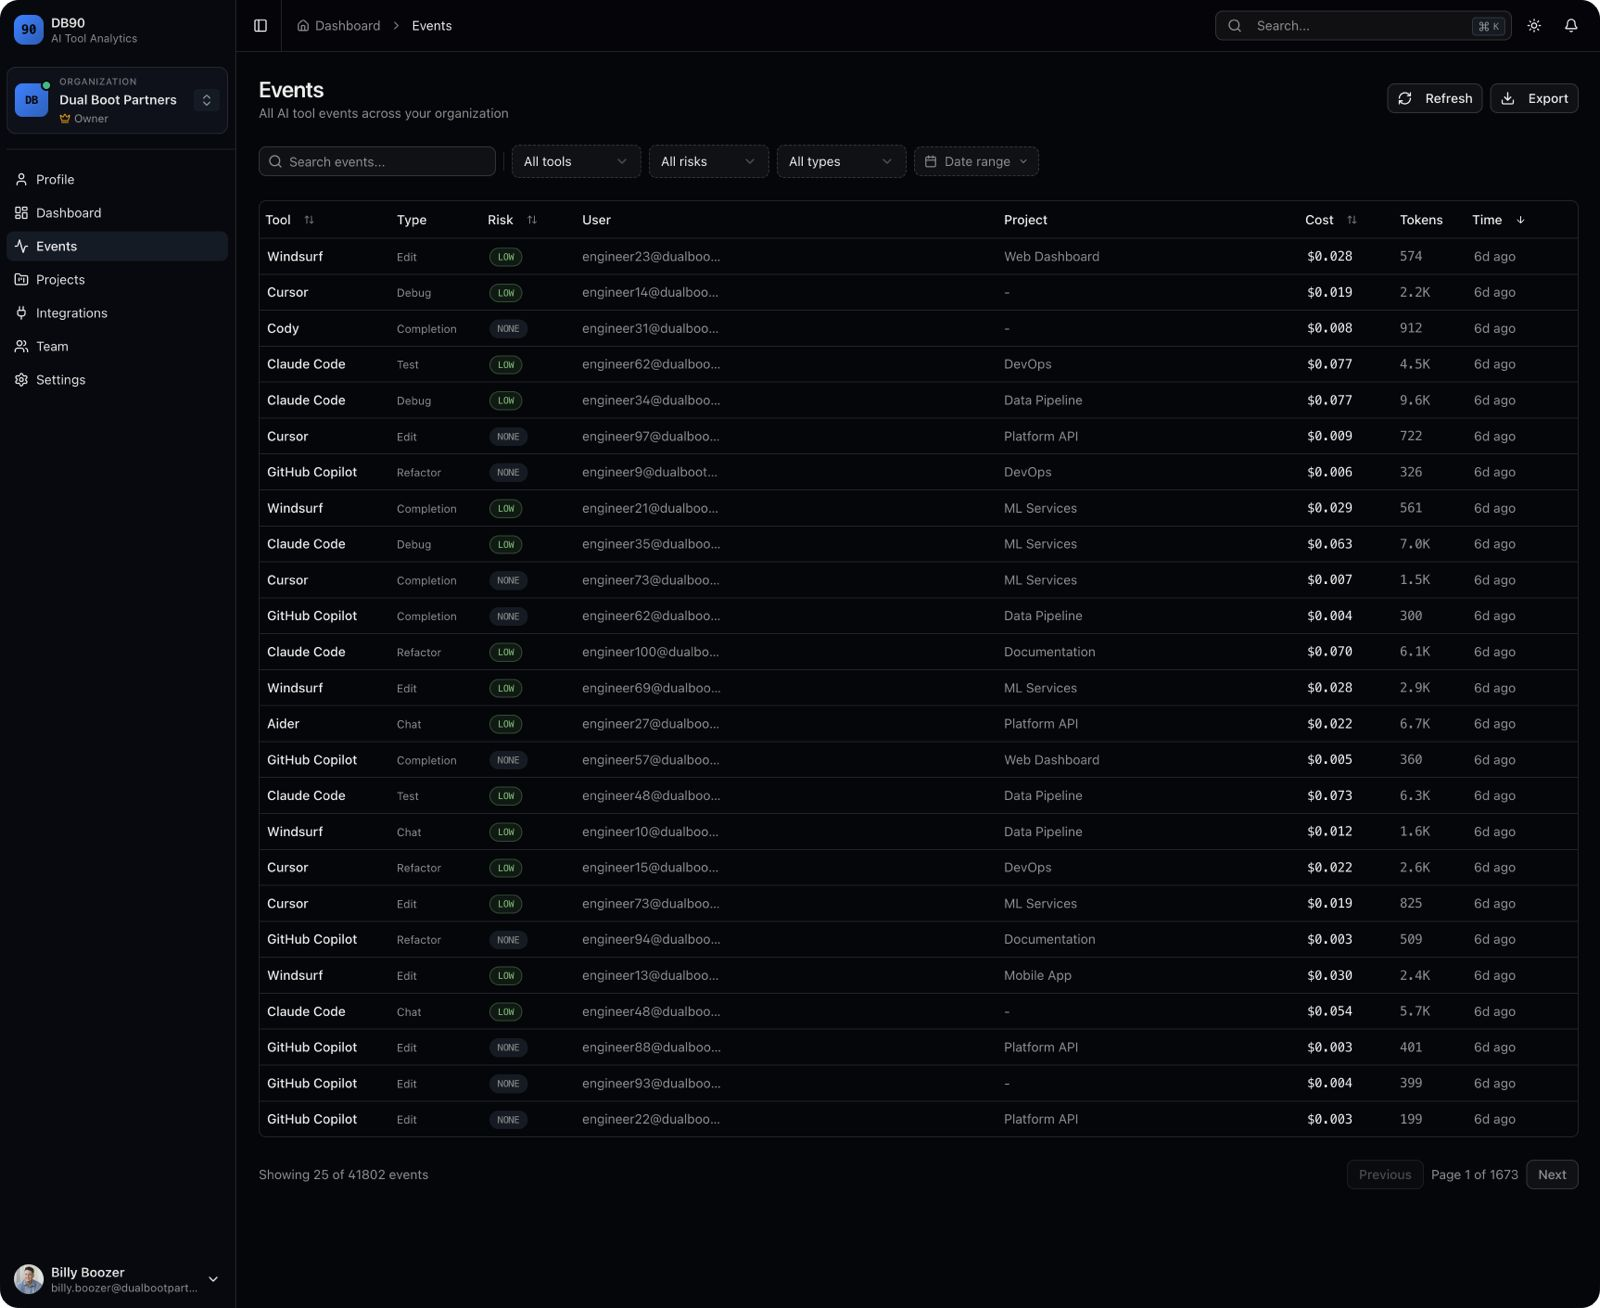
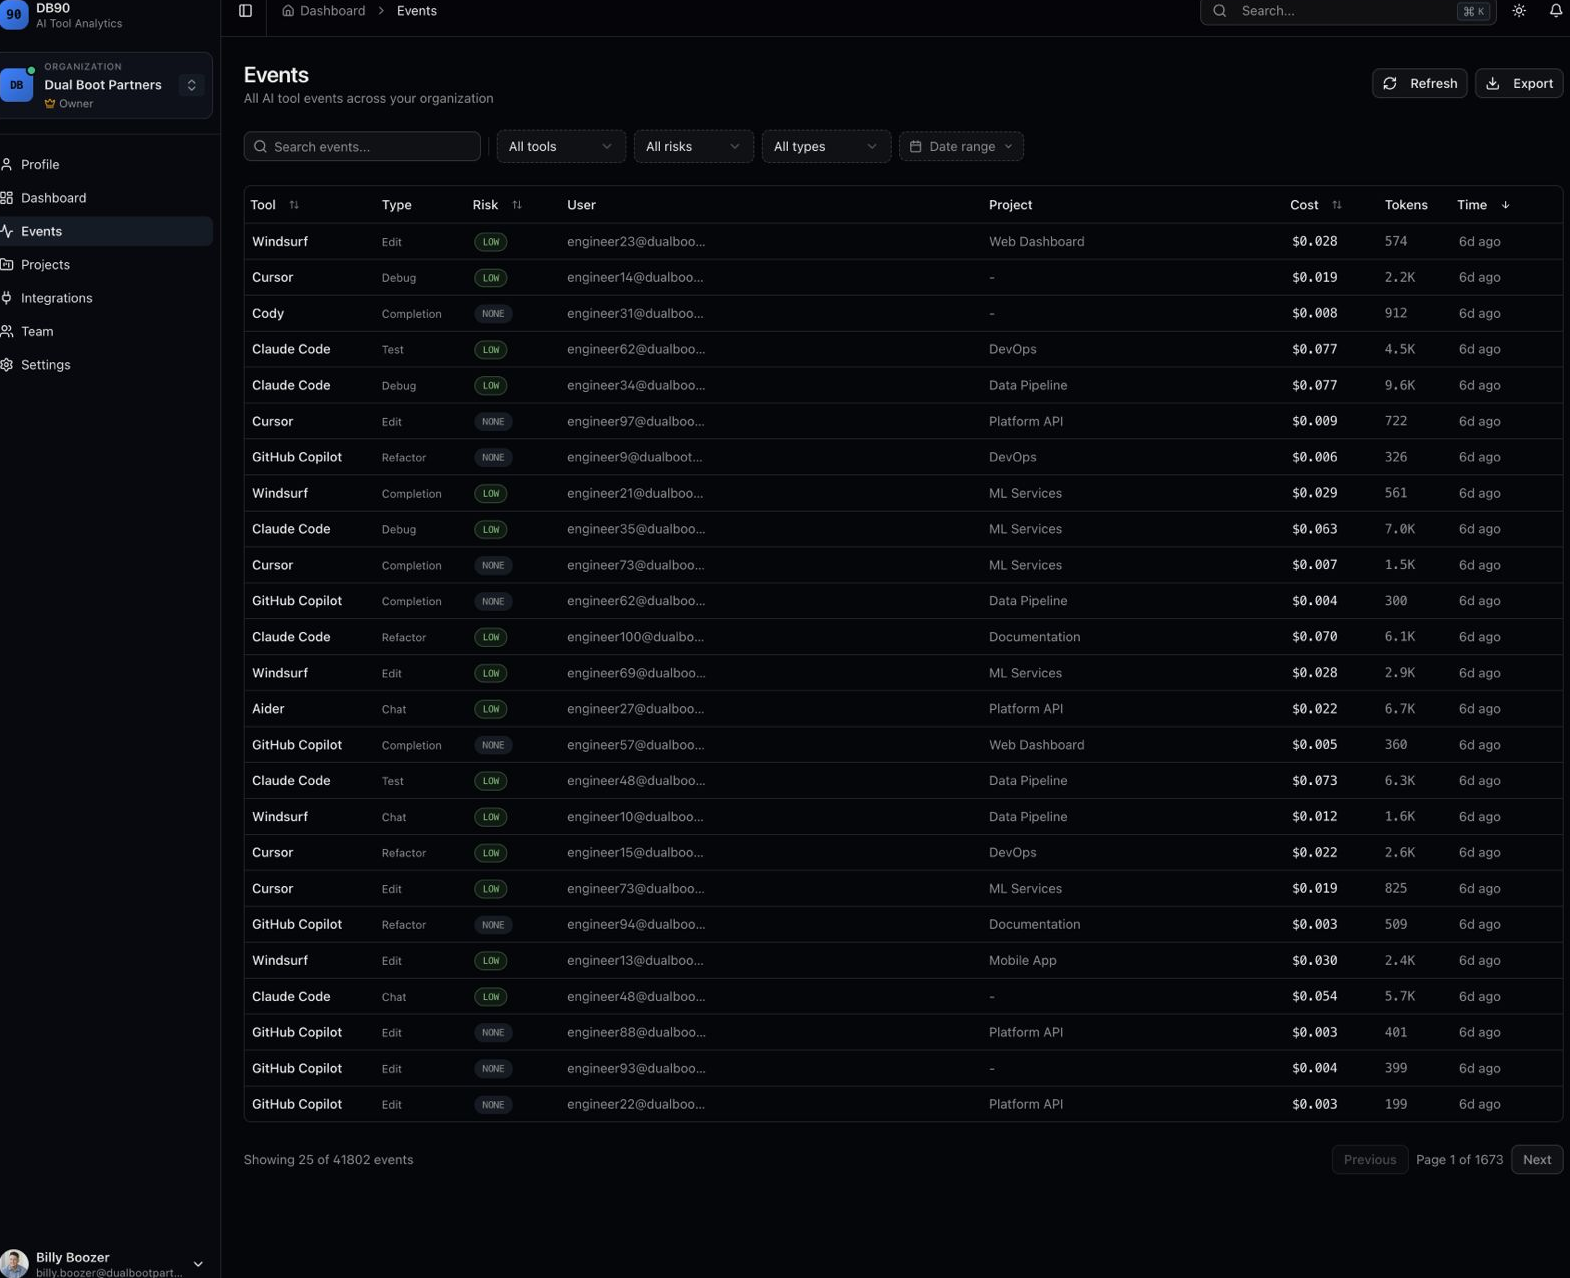
Crop 15px from all sides to remove light corners

diff --git a/src/app/globals.css b/src/app/globals.css
@@ -379,11 +379,10 @@ html, body {
 }
 
 .screenshot-wrapper {
-  border-radius: 16px;
+  border-radius: 0;
   overflow: hidden;
   background: var(--background);
   box-shadow: 
-    0 0 0 1px rgba(255, 255, 255, 0.08),
     0 25px 60px -15px rgba(0, 0, 0, 0.7),
     0 0 120px -30px rgba(59, 130, 246, 0.2);
 }
